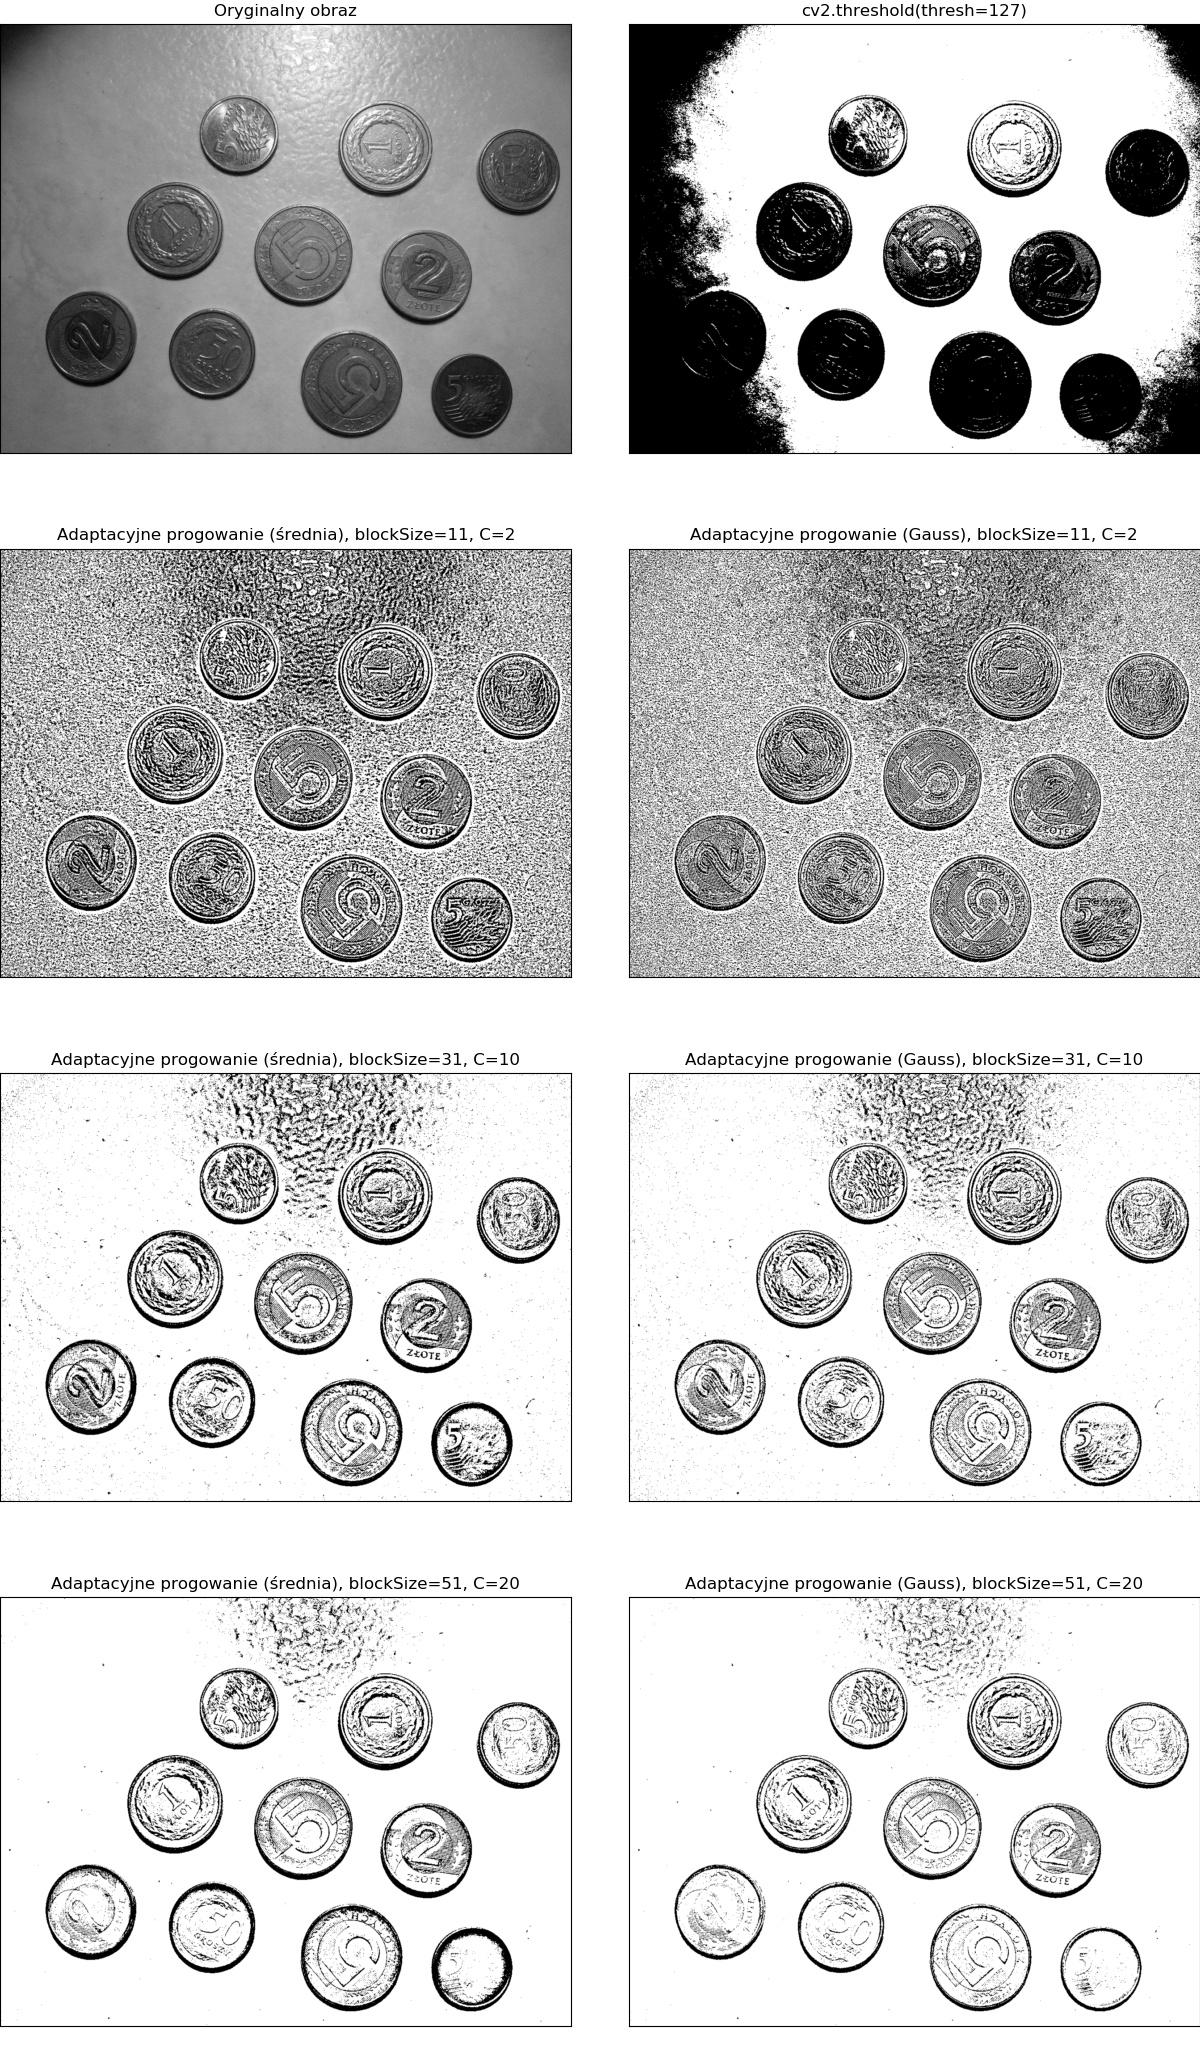
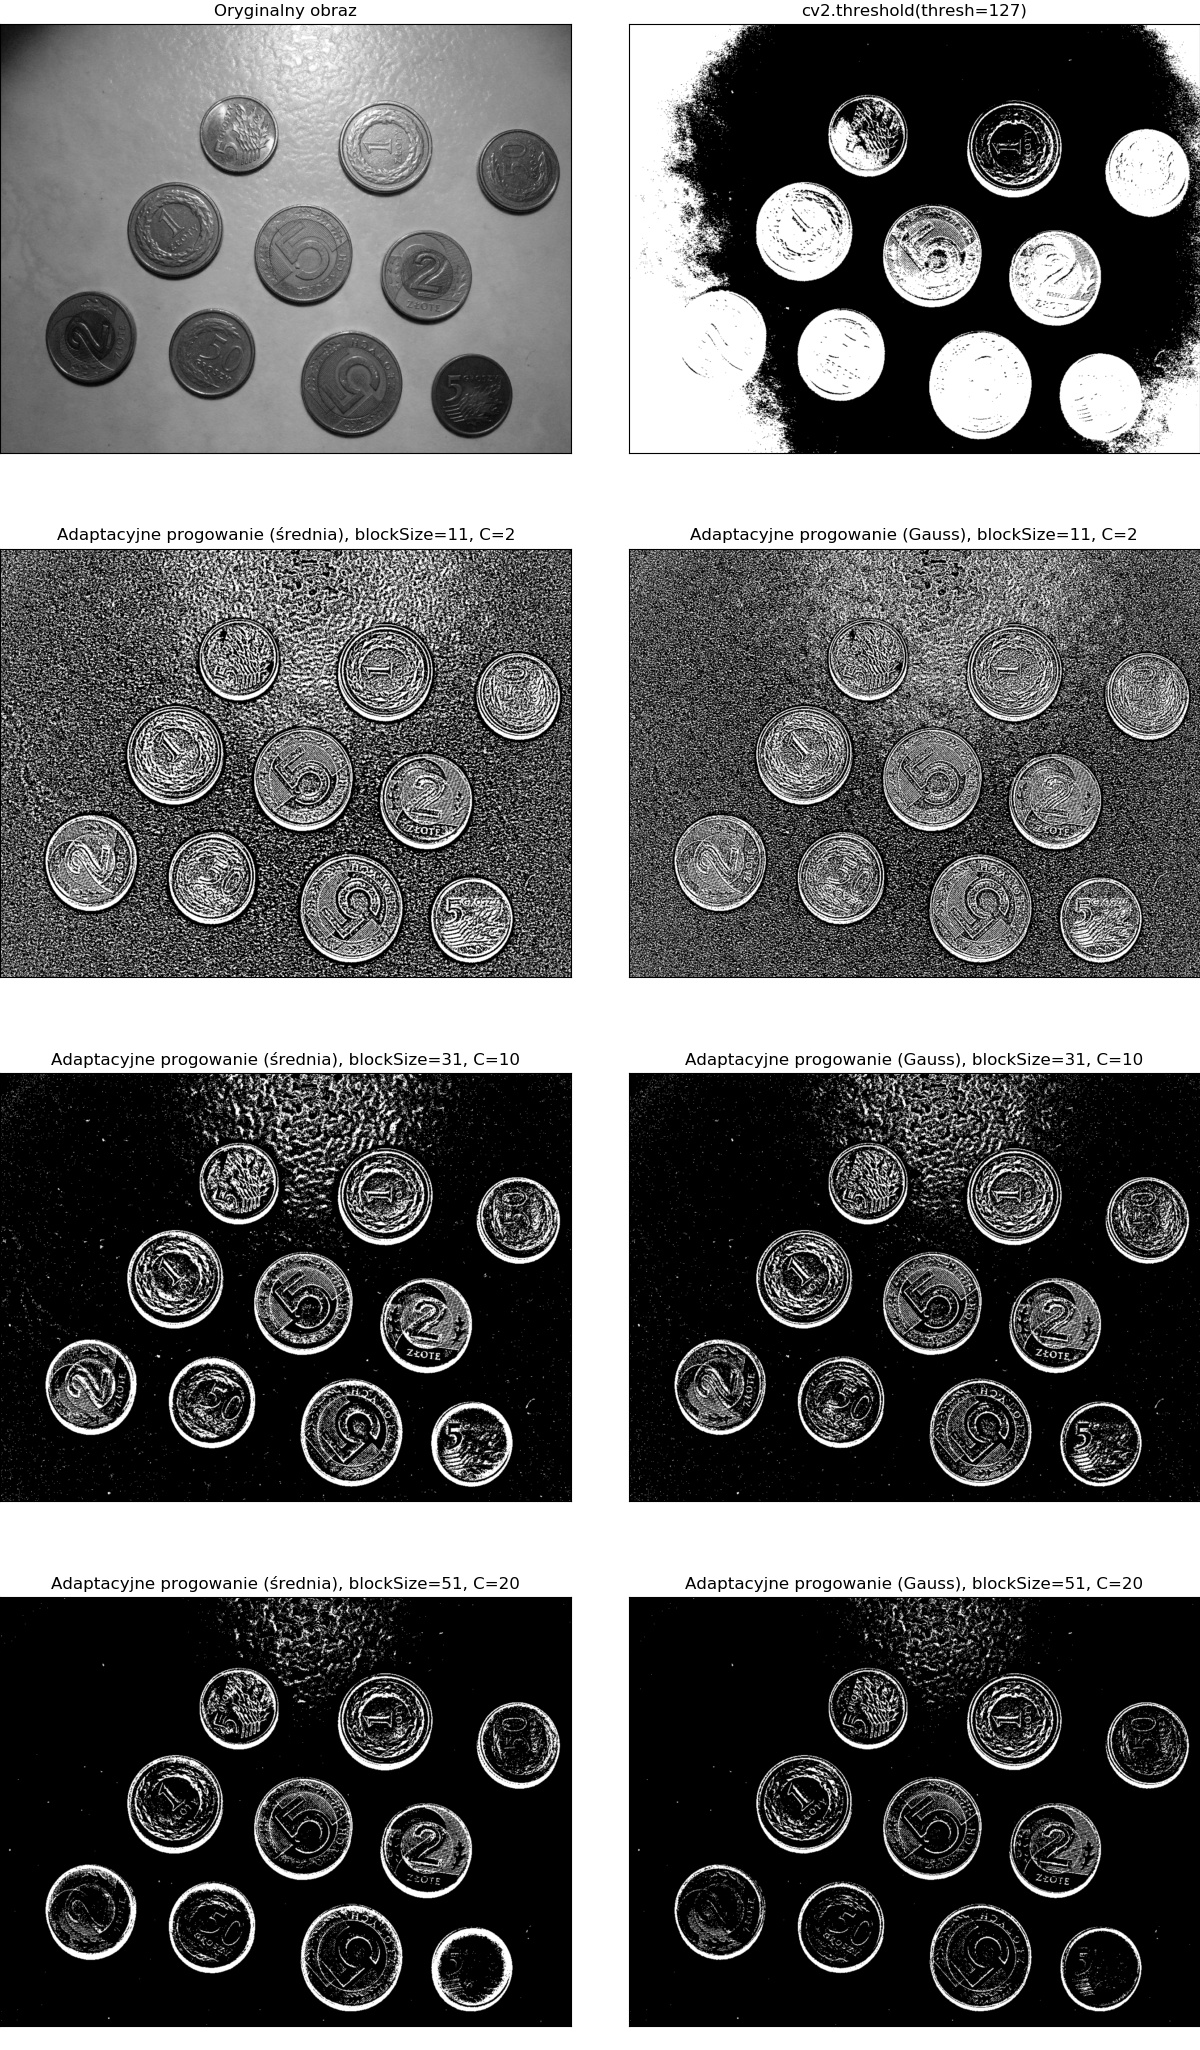
Poprawa Testowania thres'a - INV
Krawędzie mają być białe, tło ma być czarne

diff --git a/Sprawozdanie/Testowanie thresh.py b/Sprawozdanie/Testowanie thresh.py
@@ -19,13 +19,13 @@ def wykrywanieKonturow(image):
     #blockSize = 51
     #C = 20
 
-    thresh = cv2.threshold(gray, 127, 255, cv2.THRESH_BINARY)[1]
-    threshMean1 = cv2.adaptiveThreshold(gray, 255, cv2.ADAPTIVE_THRESH_MEAN_C, cv2.THRESH_BINARY, 11, 2)
-    threshGauss1 = cv2.adaptiveThreshold(gray, 255, cv2.ADAPTIVE_THRESH_GAUSSIAN_C, cv2.THRESH_BINARY, 11, 2)
-    threshMean2 = cv2.adaptiveThreshold(gray, 255, cv2.ADAPTIVE_THRESH_MEAN_C, cv2.THRESH_BINARY, 31, 10)
-    threshGauss2 = cv2.adaptiveThreshold(gray, 255, cv2.ADAPTIVE_THRESH_GAUSSIAN_C, cv2.THRESH_BINARY, 31, 10)
-    threshMean3 = cv2.adaptiveThreshold(gray, 255, cv2.ADAPTIVE_THRESH_MEAN_C, cv2.THRESH_BINARY, 51, 20)
-    threshGauss3 = cv2.adaptiveThreshold(gray, 255, cv2.ADAPTIVE_THRESH_GAUSSIAN_C, cv2.THRESH_BINARY, 51, 20)
+    thresh = cv2.threshold(gray, 127, 255, cv2.THRESH_BINARY_INV)[1]
+    threshMean1 = cv2.adaptiveThreshold(gray, 255, cv2.ADAPTIVE_THRESH_MEAN_C, cv2.THRESH_BINARY_INV, 11, 2)
+    threshGauss1 = cv2.adaptiveThreshold(gray, 255, cv2.ADAPTIVE_THRESH_GAUSSIAN_C, cv2.THRESH_BINARY_INV, 11, 2)
+    threshMean2 = cv2.adaptiveThreshold(gray, 255, cv2.ADAPTIVE_THRESH_MEAN_C, cv2.THRESH_BINARY_INV, 31, 10)
+    threshGauss2 = cv2.adaptiveThreshold(gray, 255, cv2.ADAPTIVE_THRESH_GAUSSIAN_C, cv2.THRESH_BINARY_INV, 31, 10)
+    threshMean3 = cv2.adaptiveThreshold(gray, 255, cv2.ADAPTIVE_THRESH_MEAN_C, cv2.THRESH_BINARY_INV, 51, 20)
+    threshGauss3 = cv2.adaptiveThreshold(gray, 255, cv2.ADAPTIVE_THRESH_GAUSSIAN_C, cv2.THRESH_BINARY_INV, 51, 20)
 
 
     print("\tKoniec wykrywania konturow.")
